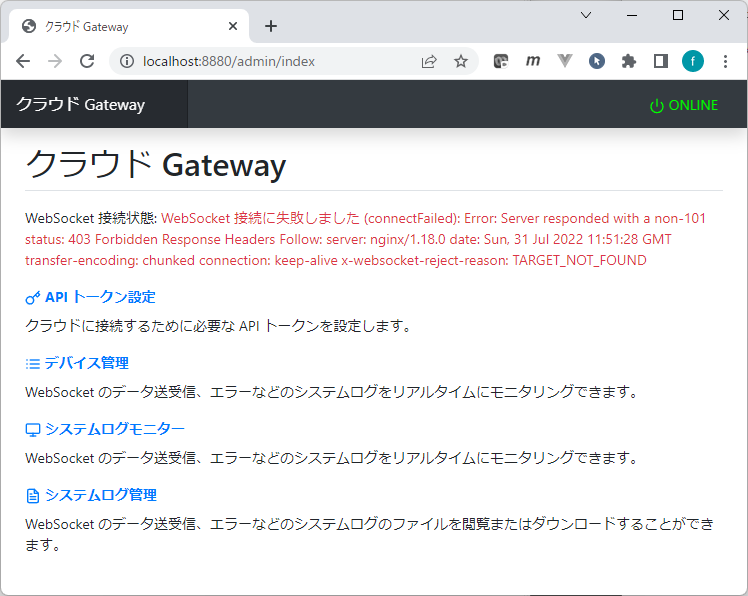
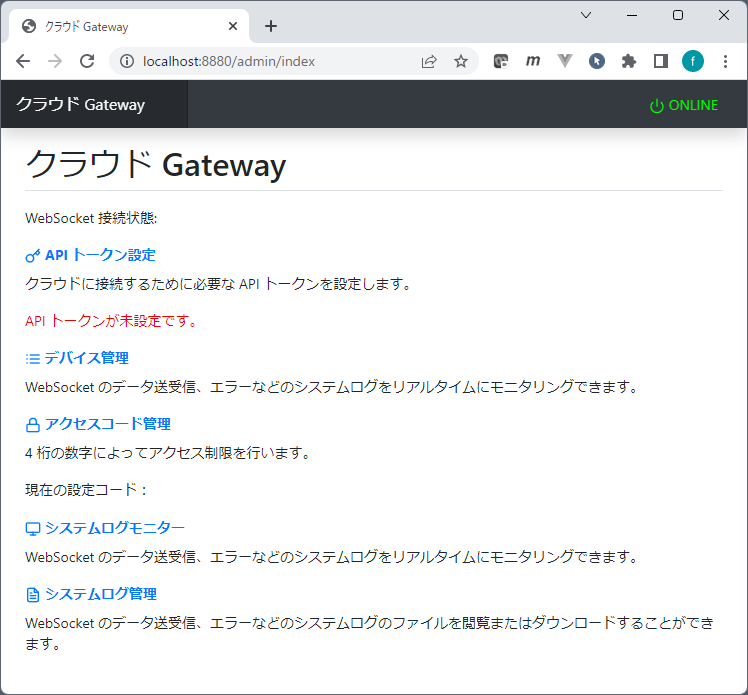
v0.2.1 リリース

diff --git a/lib/index.js b/lib/index.js
@@ -562,6 +562,11 @@ class Index {
       this._http_admin.onWsStatusChange(false, '');
     }
 
+    if (!this._conf.api_token) {
+      this._debug.log('Gateway 用 API トークンが設定されていません。ブラウザーで http://localhost:8880/admin/index にアクセスし、API トークンを設定してください。');
+      return;
+    }
+
     let establishConnection = () => {
       this._debug.log('WebSocket 接続を開始します: ' + this._conf.ws_url);
       this._ws.connect(this._conf.ws_url, 'echonetlite-protocol', null, {
@@ -570,7 +575,8 @@ class Index {
     };
 
     this._ws.on('connectFailed', async (error) => {
-      const msg = 'WebSocket 接続に失敗しました (connectFailed): ' + error.toString();
+      //const msg = 'WebSocket 接続に失敗しました (connectFailed): ' + error.toString();
+      const msg = 'インターネット接続を確認してください。なおクラウド Gateway は Proxy には対応していません。インターネット接続が正常にもかかわらず WebSocket 接続できない場合は、Gateway 用トークンが有効であるかをサーバー管理者に確認ください。';
       this._debug.error(msg);
       this._http_admin.onWsStatusChange(false, msg);
       if (/x\-websocket\-reject\-reason\: (PATH_INVALID|BEARER_INVALID|TARGET_NOT_FOUND|STATUS_INVALID|DATE_EXPIRED)/i.test(error.message)) {

diff --git a/README.md b/README.md
@@ -77,7 +77,7 @@ $ npm start
 http://localhost:8880/admin/index
 ```
 
-はじめてアクセスすると、次のように WebSocket 接続状態がエラーになっているはずです。
+はじめてアクセスすると、次のように「API トークンが未設定です。」というメッセージが表示されているはずです。
 
 ![WebSocket 未接続の状態](readme-imgs/dashboard_index_error.png)
 
